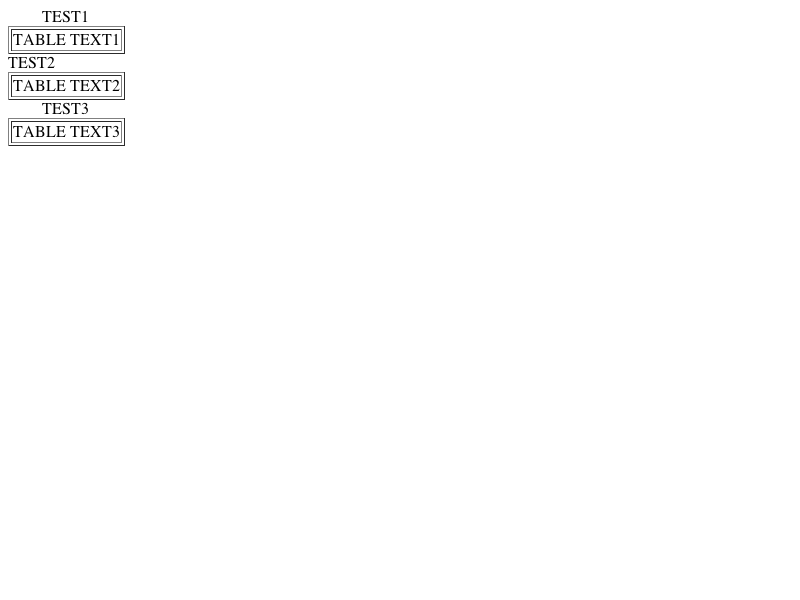
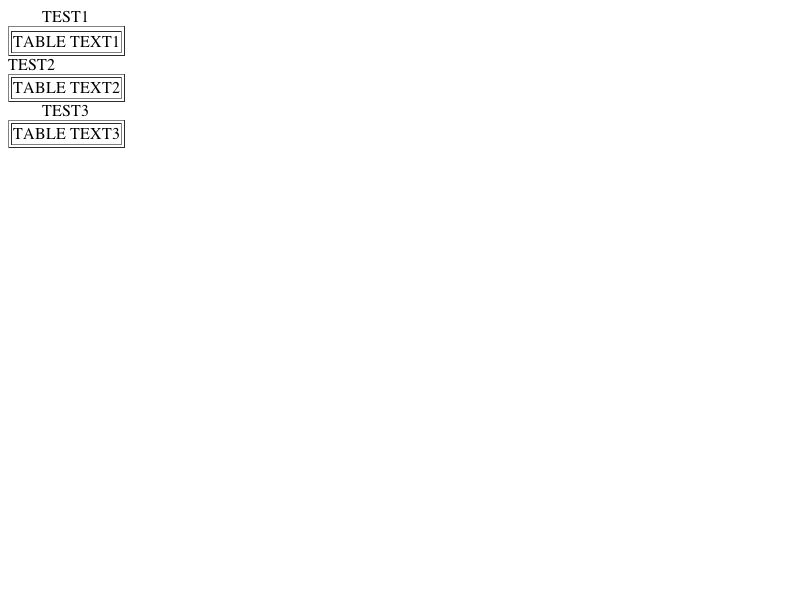
LayoutTests:
Reviewed by Hyatt.

        Changes for <rdar://problem/5204107> REGRESSION: CSS web forum site
        layout not displaying properly in latest WebKit

        New test:
        * fast/table/tableInsideCaption-expected.checksum: Added.
        * fast/table/tableInsideCaption-expected.png: Added.
        * fast/table/tableInsideCaption-expected.txt: Added.
        * fast/table/tableInsideCaption.html: Added.

        Good changes.
        * tables/mozilla/bugs/bug48028-1-expected.checksum:
        * tables/mozilla/bugs/bug48028-1-expected.png:
        * tables/mozilla/bugs/bug48028-1-expected.txt:
        * tables/mozilla_expected_failures/core/captions1-
        expected.checksum:
        * tables/mozilla_expected_failures/core/captions1-expected.png:
        * tables/mozilla_expected_failures/core/captions1-expected.txt:

        Not great changes. These changes expose other bugs. Filing reports
        for these.
        * tables/mozilla/bugs/bug48028-2-expected.txt:
        * tables/mozilla/bugs/bug55789-expected.checksum:
        * tables/mozilla/bugs/bug55789-expected.png:
        * tables/mozilla/bugs/bug55789-expected.txt:

WebCore:

        Reviewed by Hyatt.

        Fix for <rdar://problem/5204107> REGRESSION: CSS web forum site
        layout not displaying properly in latest WebKit

        Hyatt's http://trac.webkit.org/projects/webkit/changeset/21428
        exposed this bug. We were not handling error cases with <caption>
[…]

Changed region(s): [[0.0, 0.03, 0.1562, 0.27]]

diff --git a/LayoutTests/fast/table/tableInsideCaption.html b/LayoutTests/fast/table/tableInsideCaption.html
@@ -1,0 +1,18 @@
+<table>
+    <tr>
+        <td>
+            <table><tr><td>This should all be on one line.</td></tr></table>
+            <table>
+                <thead>
+                    <caption><table><tr><td>Caption</td></tr></table></caption>
+                </thead>
+                <tbody>
+                    <tr>
+                        <td>Bottom</td>
+                        <td width="100%">line.</td>
+                    </tr>
+                </tbody>
+            </table>
+        </td>
+    </tr>
+</table>

diff --git a/WebCore/html/HTMLParser.cpp b/WebCore/html/HTMLParser.cpp
@@ -420,25 +420,7 @@ bool HTMLParser::handleError(Node* n, bool flat, const AtomicString& localName, 
                 return true;
             }
             return false;
-        } else if (h->hasLocalName(captionTag)) {
-            if (isTablePart(current)) {
-                reportError(MisplacedCaptionInTableError, &current->localName());
-                Node* tsection = current;
-                if (current->hasTagName(trTag))
-                    tsection = current->parent();
-                else if (current->hasTagName(tdTag) || current->hasTagName(thTag))
-                    tsection = current->parent()->parent();
-                Node* table = tsection->parent();
-                ExceptionCode ec = 0;
-                table->insertBefore(n, tsection, ec);
-                pushBlock(localName, tagPriority);
-                setCurrent(n);
-                inStrayTableContent++;
-                blockStack->strayTableContent = true;
-                return true;
-            } else
-                reportError(MisplacedCaptionError);
-        } else if (h->hasLocalName(colgroupTag)) {
+        } else if (h->hasLocalName(colgroupTag) || h->hasLocalName(captionTag)) {
             if (isTableRelated(current)) {
                 while (blockStack && isTablePart(current))
                     popOneBlock();

diff --git a/WebCore/html/HTMLParserErrorCodes.cpp b/WebCore/html/HTMLParserErrorCodes.cpp
@@ -36,8 +36,6 @@ const char* htmlParserErrorMessageTemplate(HTMLParserErrorCode errorCode)
         "Extra %tag1 encountered.  Migrating attributes back to the original %tag1 element and ignoring the tag.",
         "%tag1 is not allowed inside <object>. Skipping all content until </object> is encountered.",
         "<area> is not allowed inside %tag1. Moving the <area> into the nearest enclosing <map>.",
-        "<caption> found outside of a table.  Content ignored.",
-        "<caption> is not allowed inside %tag1. Moving the <caption> into the enclosing table before all table sections.",
         "%tag1 is not allowed inside %tag2. Content ignored.",
         "%tag1 is not allowed in a <frameset> page. Content ignored.",
         "%tag1 is not allowed inside %tag2. Closing %tag2 and trying the insertion again.",

diff --git a/WebCore/html/HTMLParserErrorCodes.h b/WebCore/html/HTMLParserErrorCodes.h
@@ -34,8 +34,6 @@ enum HTMLParserErrorCode {
     RedundantHTMLBodyError,
     BadObjectContentError,
     MisplacedAreaError,
-    MisplacedCaptionError,
-    MisplacedCaptionInTableError,
     IgnoredContentError,
     MisplacedFramesetContentError,
     MisplacedContentRetryError,
